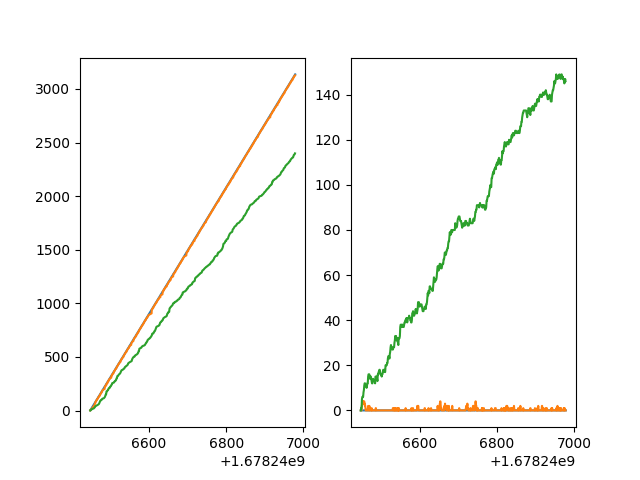
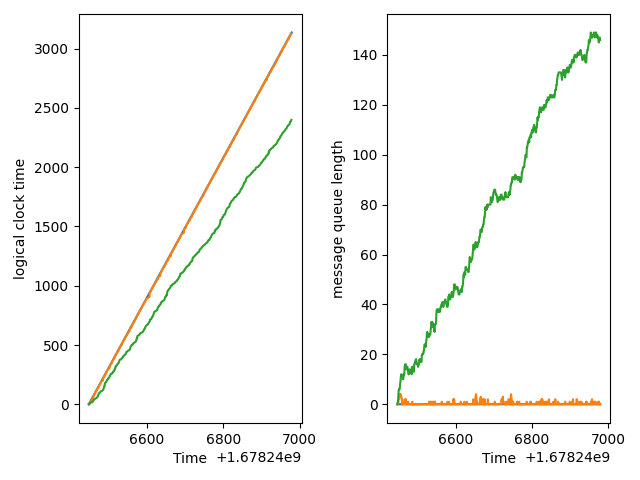
Labels

diff --git a/experiments/main.py b/experiments/main.py
@@ -11,8 +11,8 @@ import pytest
 
 class ExperimentParameters:
     COLUMN_TO_LABEL = {
-        2: "message_queue_length",
-        3: "logical_clock_time",
+        2: "message queue length",
+        3: "logical clock time",
     }
     PARAMETERS = [
         # [NAME, DURATIONS, PORTS, RANDOM_EVENT]
@@ -56,7 +56,10 @@ def test_graphs(parameters):
                 x.append(float(split[1]))
                 y.append(int(split[column]))
             file.close()
+            axes[i].set_xlabel("time")
+            axes[i].set_ylabel(ExperimentParameters.COLUMN_TO_LABEL[columns[i]])
             axes[i].plot(x, y)
     name = parameters[0]
+    pyplot.tight_layout(pad=1.0)
     pyplot.savefig(Config.FIGURES + name + ".png")
     pyplot.close()
